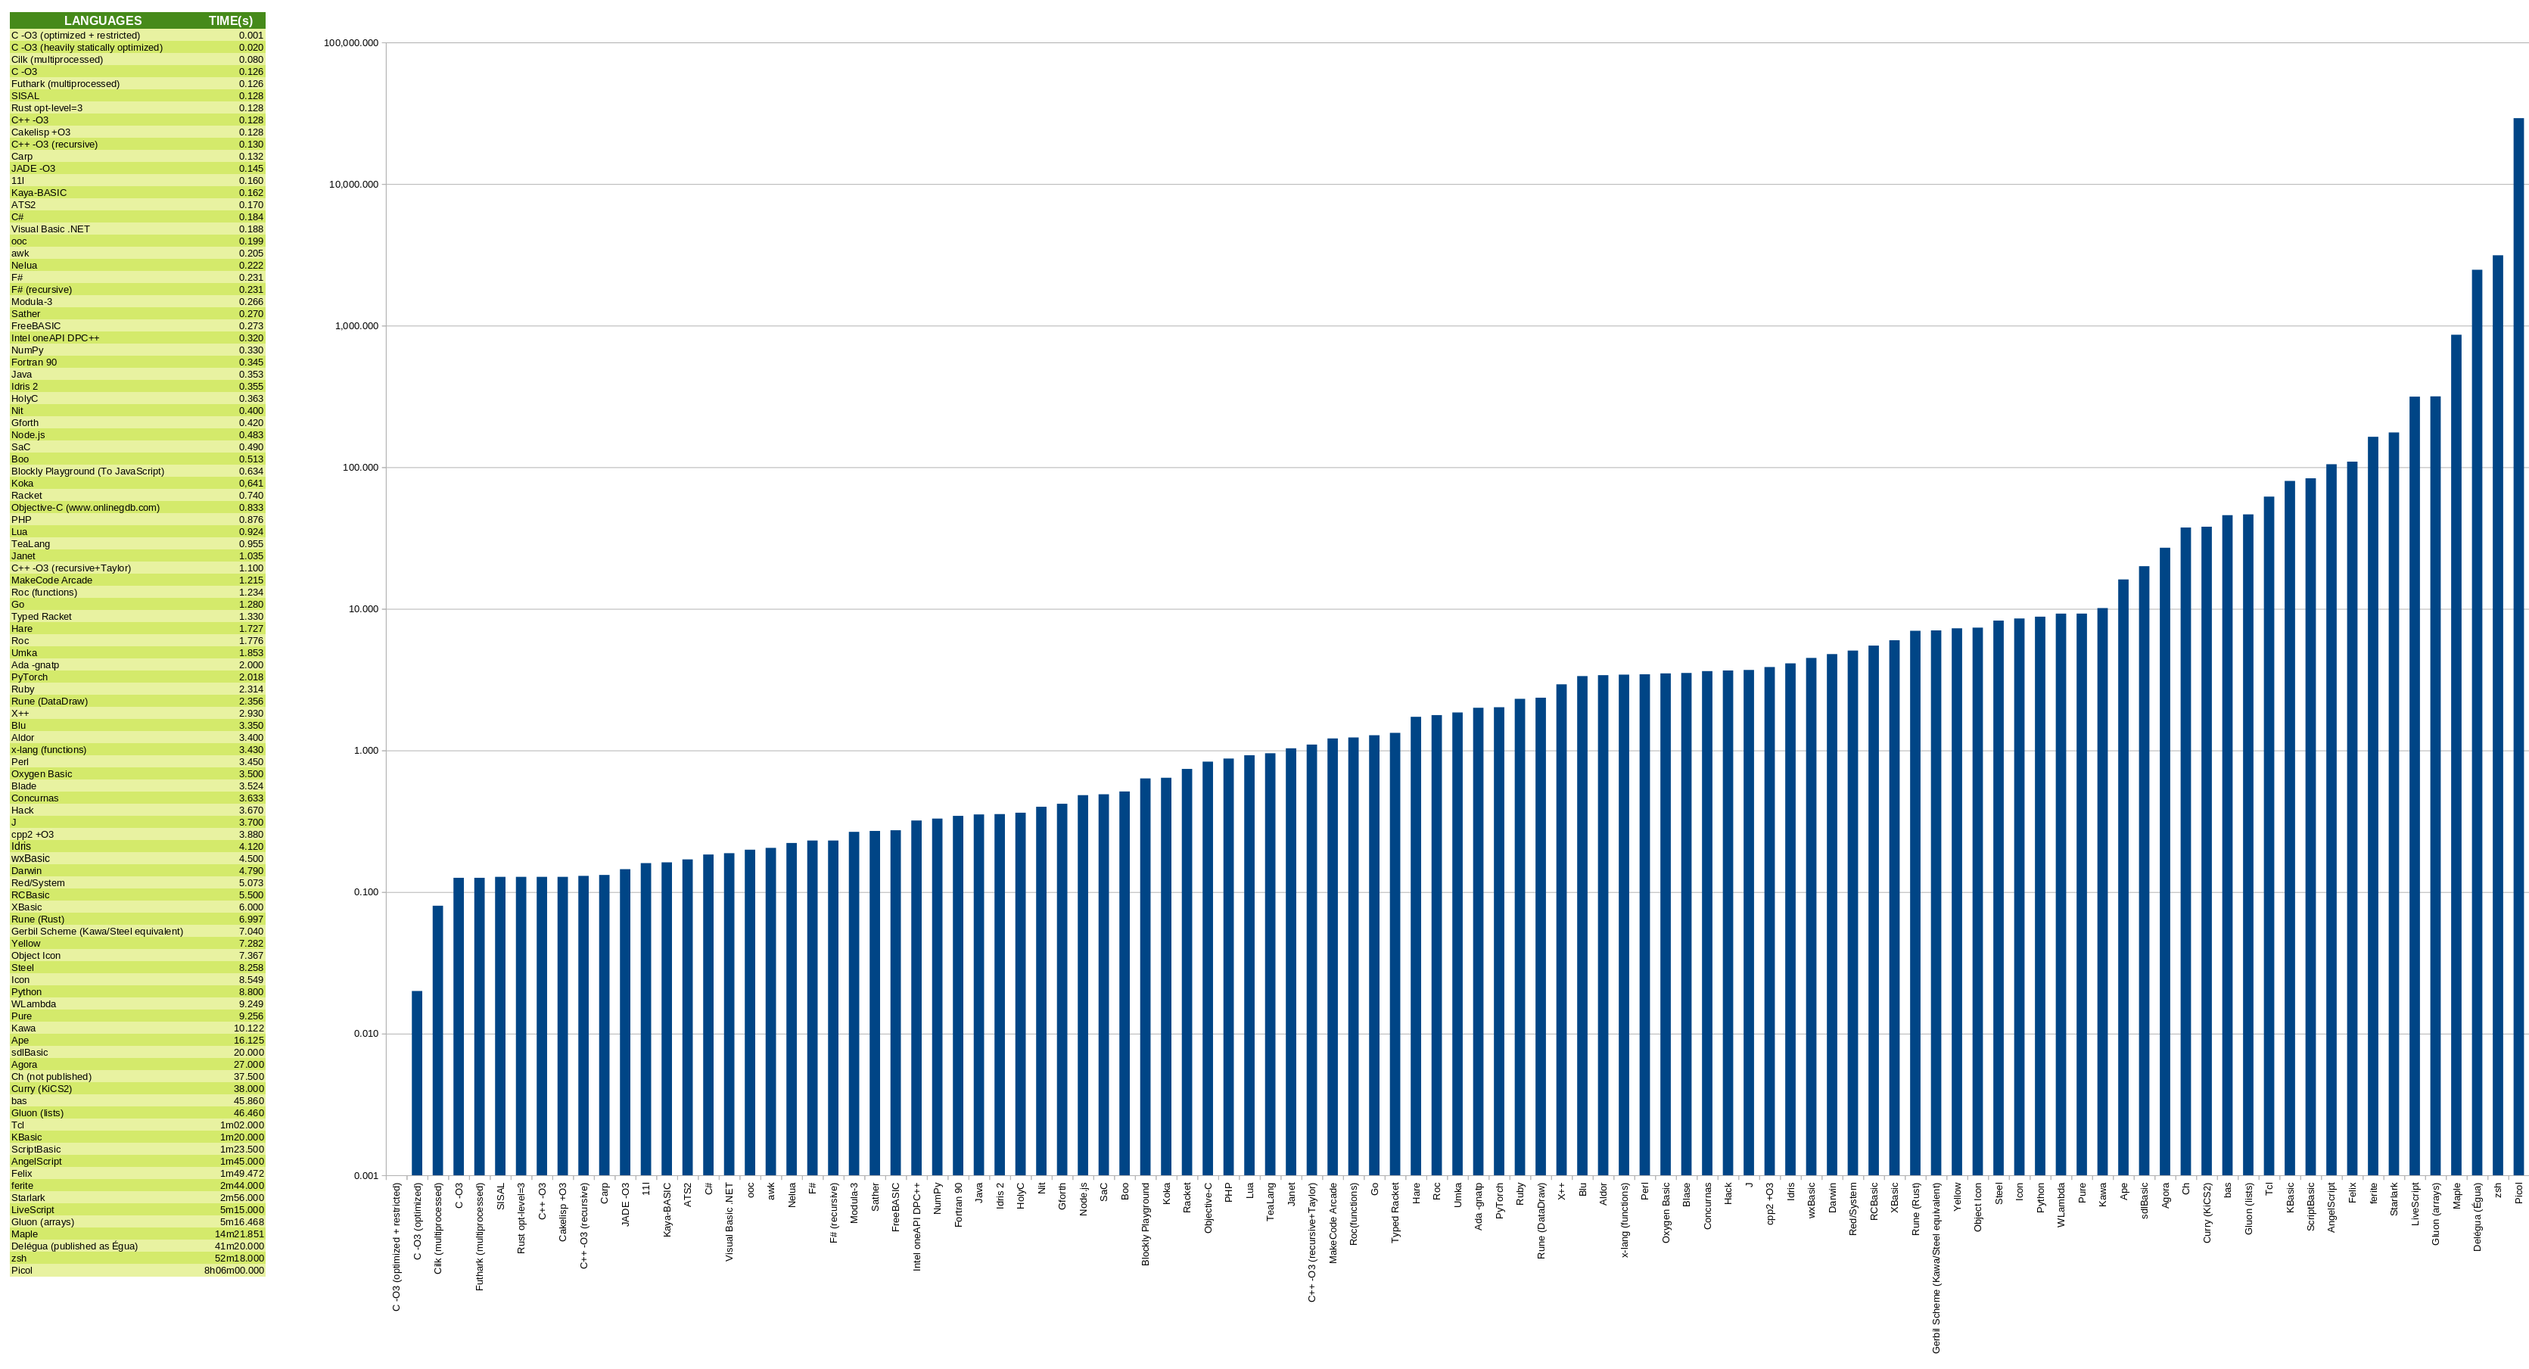
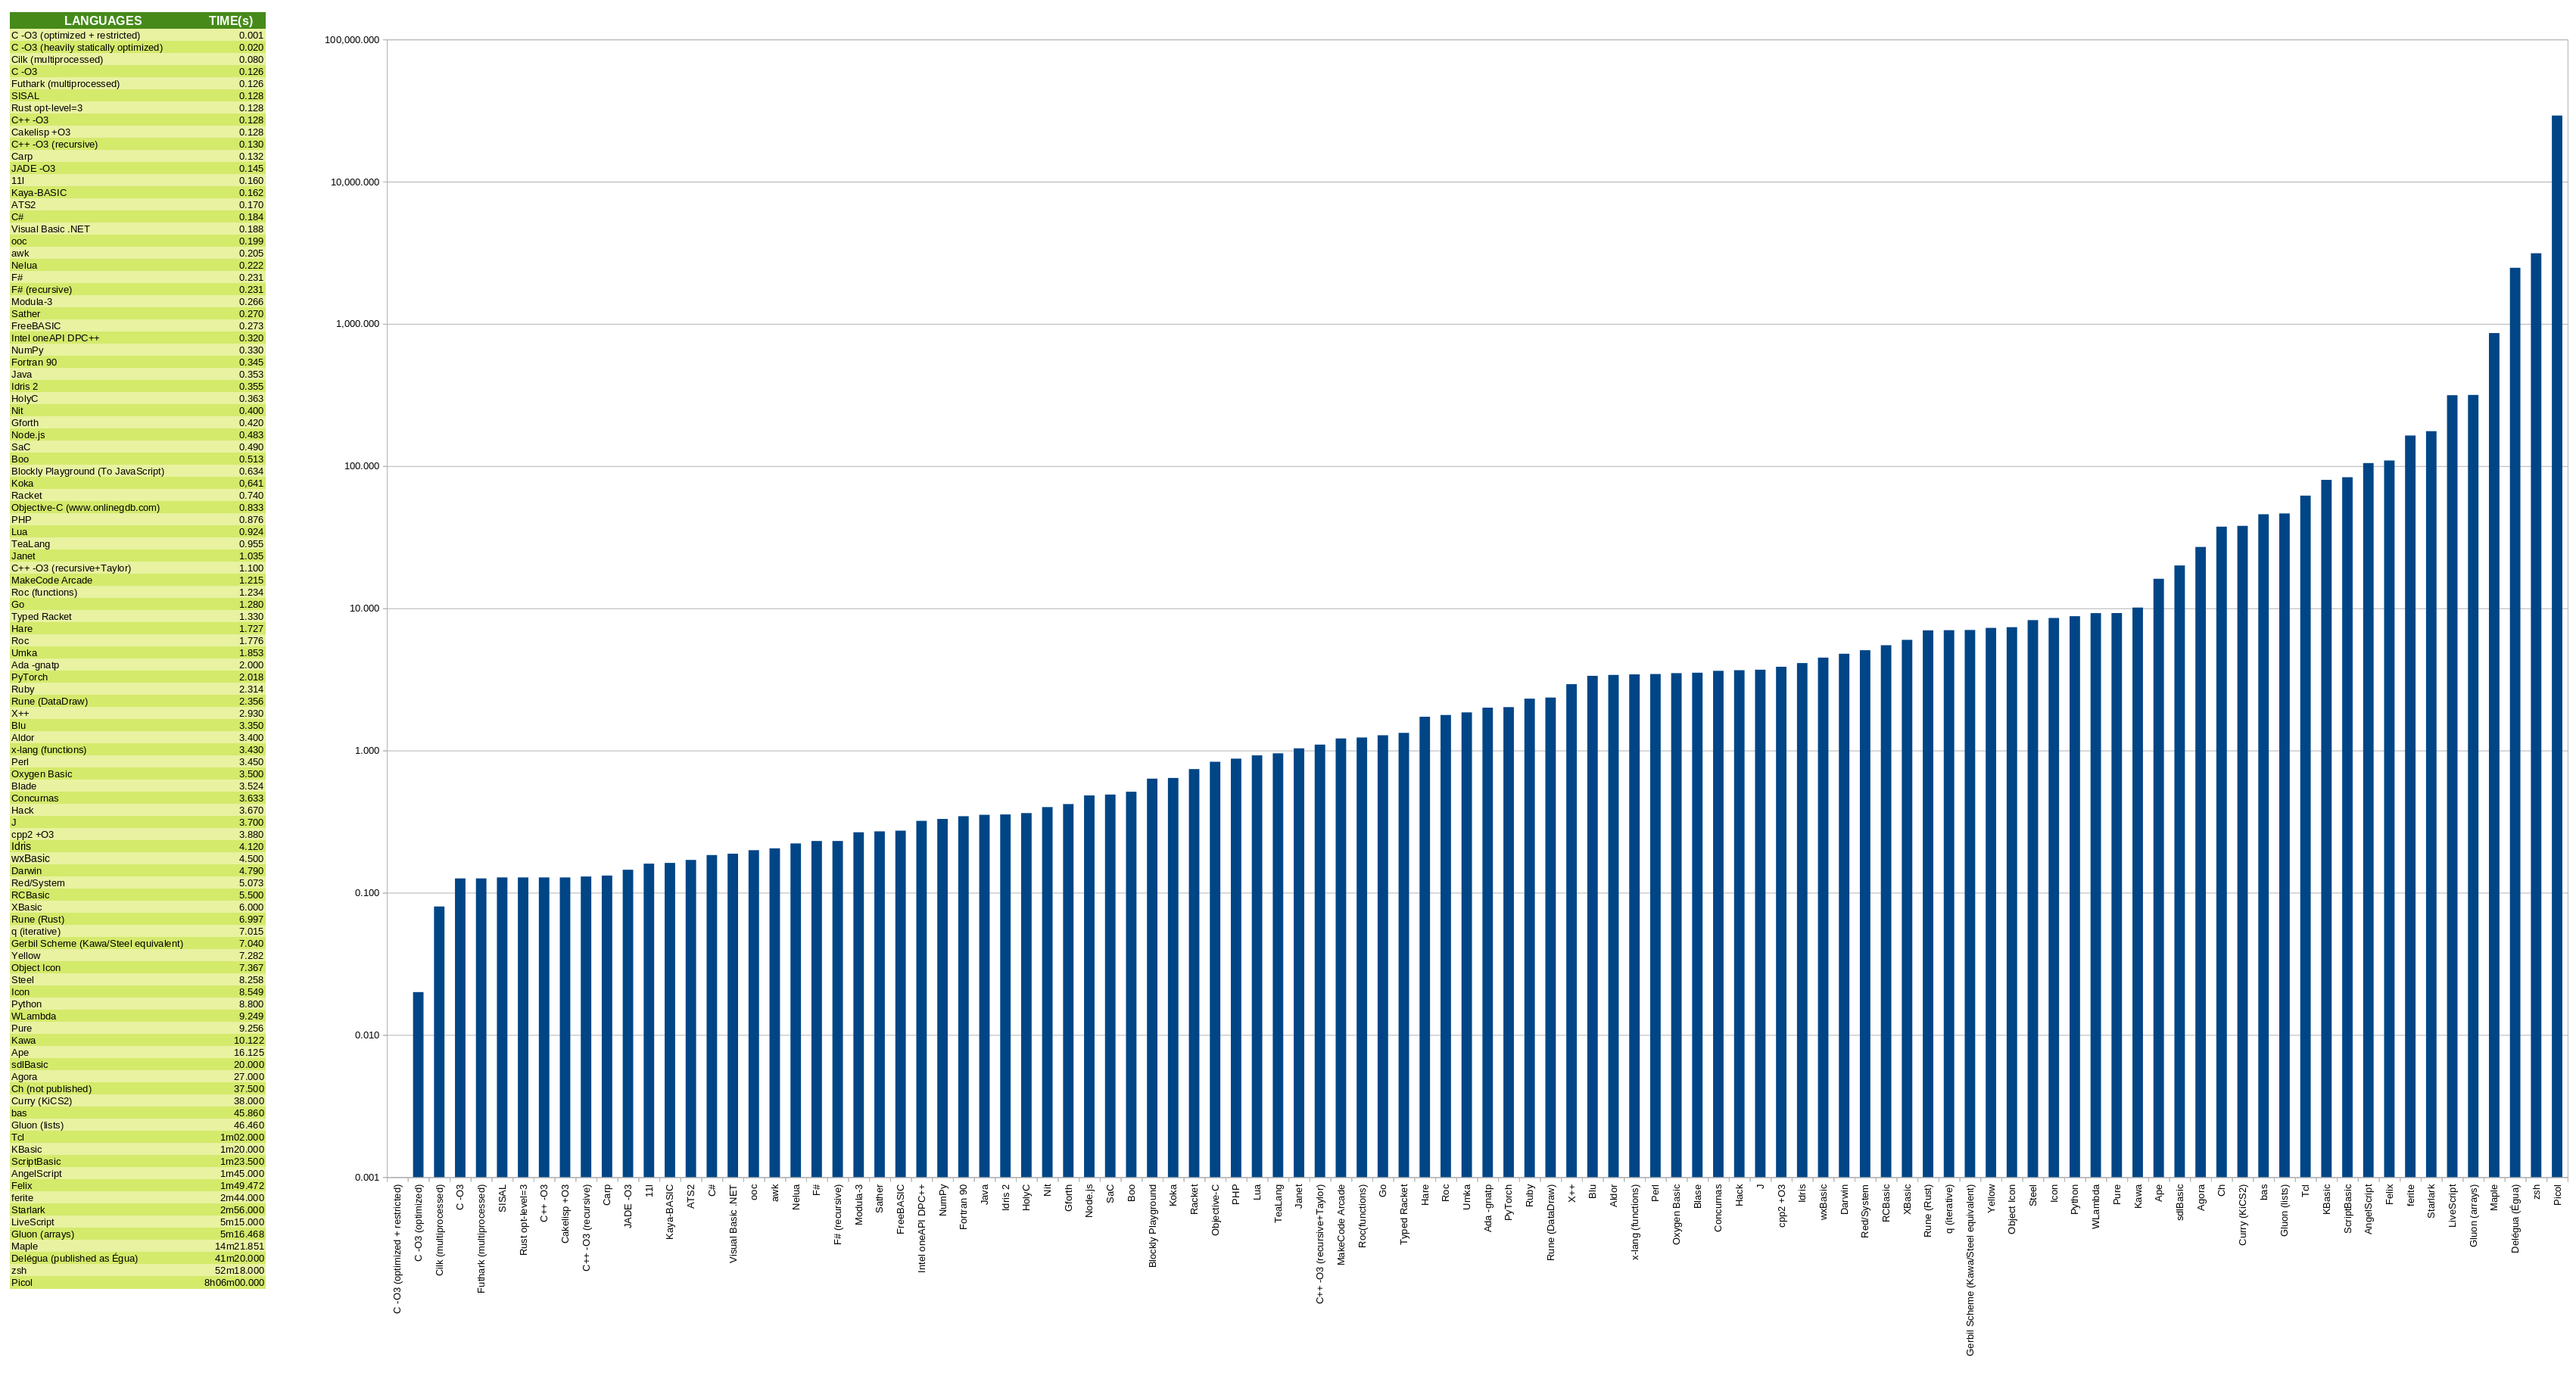
Add files via upload

Changed region(s): [[0.0, 0.0, 1.0, 0.9596]]

diff --git a/SOLUCOES.md b/SOLUCOES.md
@@ -504,7 +504,7 @@ This is a list of links in this repository to solutions in different dialects, o
 
 ### F# (23/05/2024) 🚀 🏛 💡 💖 ➰
 
-[juros.fs](juros.fs)<br>
+**iterativa / iterative:** [juros.fs](juros.fs)<br>
 **recursiva / recursive:** [jurosrec.fs](jurosrec.fs) + ♻
 
 ### Falcon (10/02/2026)
@@ -1227,10 +1227,14 @@ This is a list of links in this repository to solutions in different dialects, o
 [main.py](main.py)
 
 ### PyTorch (14/07/2026) 🚀
+
 [JurosPT.py](JurosPT.py)<br>
 [mainPT.py](mainPT.py)
 
-### q (04/03/2026) 🔧 ♻ ✍
+### q (04/03/2026) 🔧 ✍
+
+**iterativa / iterative:** [jurosqi.q](jurosqi.q)<br>
+**recursiva / recursive:**[jurosq.q](jurosq.q) + ♻
 
 [jurosq.q](jurosq.q)
 
